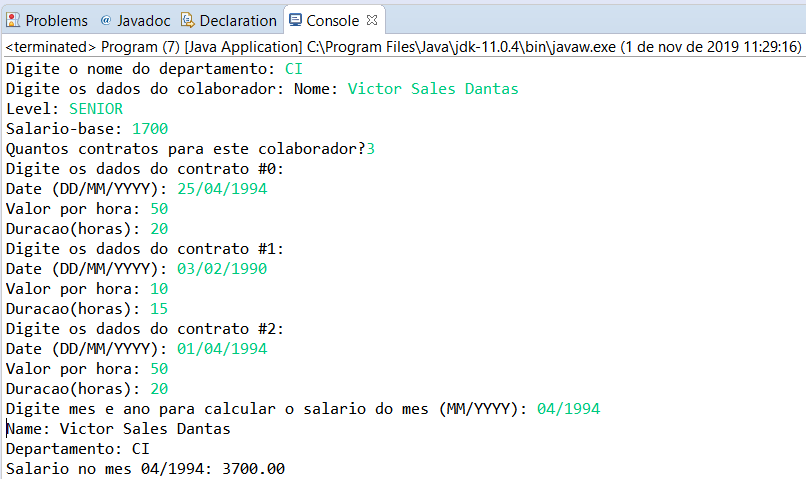
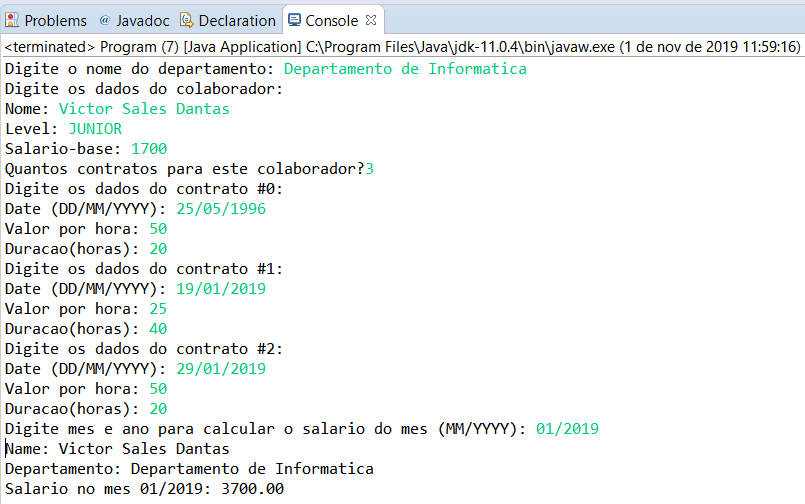
Correcao da quebra de linha e da imagem

Changed region(s): [[0.0, 0.0, 1.0, 0.9937]]

diff --git a/src/application/Program.java b/src/application/Program.java
@@ -20,7 +20,7 @@ public class Program {
 
 		System.out.print("Digite o nome do departamento: ");
 		String departmentName = sc.nextLine();
-		System.out.print("Digite os dados do colaborador: ");
+		System.out.println("Digite os dados do colaborador: ");
 		System.out.print("Nome: ");
 		String workerName = sc.nextLine();
 		System.out.print("Level: ");
